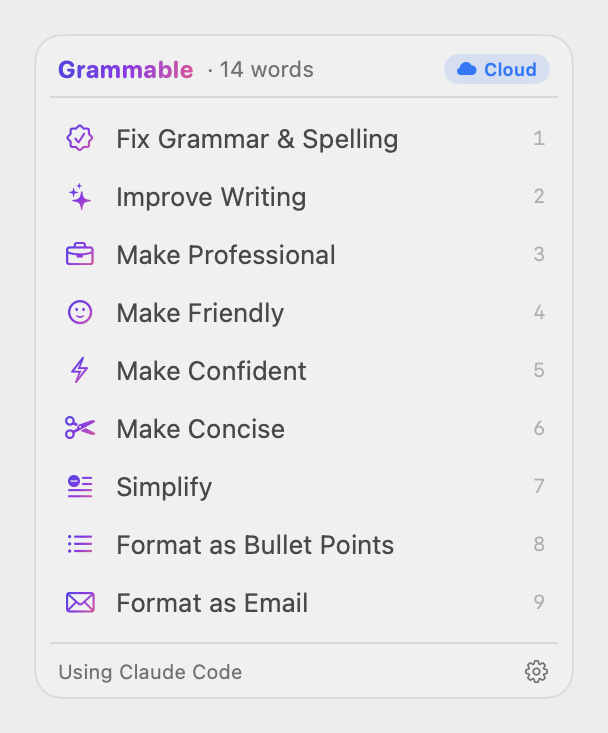
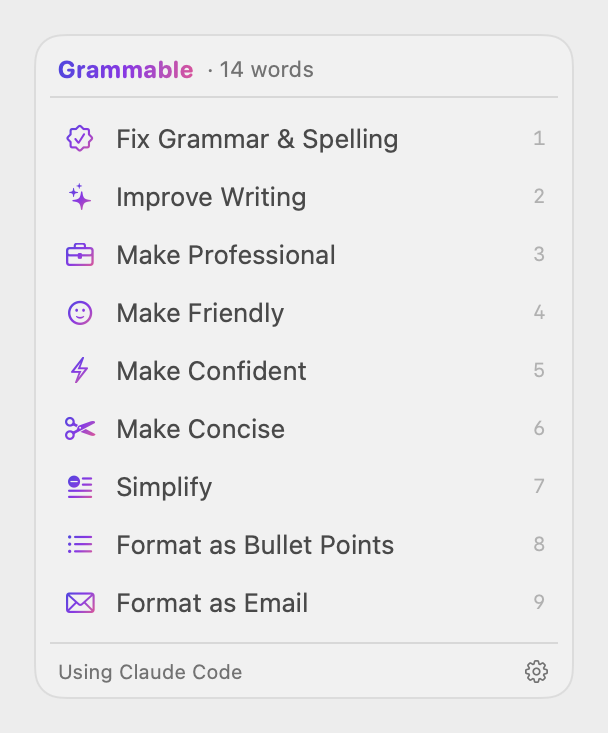
Update README for recent features
Document the built-in macOS spell checker, the Free offline AI setup,
launch at login, Monterey support and upgrading with brew update.
Refresh the menu screenshot and drop comparisons to other products.

diff --git a/README.md b/README.md
@@ -7,7 +7,8 @@
 ### Free, open-source AI grammar checker & rewriter for macOS
 
 **Fix grammar and spelling, change tone, rewrite and format text in _any_ Mac app —
-powered by the AI you already have: Claude Code, Codex CLI, Gemini CLI, Ollama, LM Studio or Apple Intelligence.**
+powered by the AI you already have: Claude Code, Codex CLI, Gemini CLI, Ollama, LM Studio or Apple Intelligence.
+No AI yet? Grammar fixes work out of the box, and a free offline AI is three clicks away.**
 
 **No subscription. No account. No servers. 100% free.**
 
@@ -40,13 +41,14 @@ powered by the AI you already have: Claude Code, Codex CLI, Gemini CLI, Ollama, 
 
 Paying a monthly subscription for a grammar checker when you **already pay for Claude, ChatGPT or Gemini** — or can run a free local model — makes no sense.
 
-Grammable is a tiny **menu bar app** that turns the AI tools already installed on your Mac into a **system-wide writing assistant**, like Grammarly — without the extra subscription, the browser extension or sending your writing to yet another company.
+Grammable is a tiny **menu bar app** that turns the AI tools already installed on your Mac into a **system-wide writing assistant** — without the extra subscription, the browser extension or sending your writing to yet another company.
 
 | | Grammable | Typical subscription writing assistants |
 |---|---|---|
 | Price | **Free forever (GPL-3.0)** | Monthly subscription |
 | AI model | **Your choice:** Claude, GPT/Codex, Gemini, Llama, Qwen, Mistral, Apple on-device… | Vendor's model only |
-| Offline mode | **Yes** (Ollama, LM Studio, Apple Intelligence) | No |
+| Offline mode | **Yes** (Ollama, LM Studio, Apple Intelligence, built-in macOS checker) | No |
+| Works with nothing installed | **Yes** — grammar & spelling via the macOS checker | — |
 | Works in | **Any app** with selectable text | Selected apps / browser |
 | Extra account | **None** | Required |
 | Your own prompts | **Yes** — shareable Markdown presets | Limited |
@@ -65,12 +67,15 @@ Grammable is a tiny **menu bar app** that turns the AI tools already installed o
 - 🖱 **Appears when you select text** — a small **G** button pops up next to your selection; click it for actions. No live typing surveillance.
 - ⌨ **Global shortcut `⌃⌥G`** — works even when the pop-up button is turned off.
 - 🧠 **Choose the AI per action** — e.g. on-device Ollama for grammar, Claude for tone.
+- 🆓 **Works with no AI installed** — *Fix Grammar & Spelling* uses the spelling and grammar checker built into macOS, and takes over automatically if your AI isn't installed or running.
+- 📦 **One-click free offline AI** — *Settings → AI Backends → Free offline AI* installs Ollama and downloads a small model with a progress bar. No account, nothing leaves your Mac.
 - 🔒 **Privacy badge on every result** — always shows whether your text stayed **On-device** or went to the **Cloud**.
 - 📝 **Custom presets as Markdown files** — write your own house style, share it on GitHub.
 - 🟢 **Menu bar on/off switch** — pause Grammable instantly.
+- 🚀 **Starts quietly at login** — sits in the menu bar after a restart, with no windows. Turn it off in Settings.
 - 🚫 **Per-app exclusions** — never pops up in Terminal, password managers, or apps you choose.
 - 🔑 **Never reads password fields.** Your clipboard is restored after every action.
-- 🪶 **Native & lightweight** — Swift + SwiftUI, universal binary (Apple silicon & Intel), no Electron.
+- 🪶 **Native & lightweight** — Swift + SwiftUI, ~2 MB universal binary (Apple silicon & Intel), no Electron. Runs on **macOS 12 Monterey** and later.
 - 🧰 **Command-line mode** — `Grammable --run fix-grammar "text"` for scripts and Shortcuts.
 
 ## How it works
@@ -80,11 +85,12 @@ Grammable is a tiny **menu bar app** that turns the AI tools already installed o
         (Mail, Slack, Notes, Safari, Chrome, Word, VS Code, …)         │
                                                                        ▼
                      Claude Code · Codex CLI · Gemini CLI · Ollama · LM Studio · Apple Intelligence
+                                  (no AI? grammar fixes use the macOS spell checker)
 ```
 
 1. **Select** some text you wrote — in any app.
 2. Click the **G** button that appears next to it (or press **`⌃⌥G`**).
-3. Choose an action: **Fix Grammar & Spelling**, **Make Professional**, **Make Concise**, **Format as Email**… (number keys `1`–`9` work too).
+3. Choose an action: **Fix Grammar & Spelling**, **Make Professional**, **Make Concise**, **Format as Email**… (number keys `1`–`9` work too). The bottom of the menu shows which AI will be used, and a notice with **Set Up Free AI…** appears if none is set up.
 4. **Review** the suggestion:
    - *Grammar fixes* → every change is listed; tick the ones you want.
    - *Rewrites* → an editable before/after view.
@@ -96,7 +102,7 @@ Grammable is a tiny **menu bar app** that turns the AI tools already installed o
 
 ## Supported AI backends
 
-Grammable never bundles a model or calls its own server. It drives tools **you already have installed**:
+Grammable never bundles a model or calls its own server. It drives tools **you already have installed** — and works without any of them for grammar and spelling:
 
 | Backend | Where your text goes | What you need | Cost |
 |---|---|---|---|
@@ -110,7 +116,7 @@ Grammable never bundles a model or calls its own server. It drives tools **you a
 
 **No AI installed? It still works.** *Fix Grammar & Spelling* falls back to the spelling and grammar checker built into macOS, so it works on any Mac with zero setup. For rewrites and tone changes, **Settings → AI Backends → Free offline AI** sets up [Ollama](https://ollama.com) in three clicks: download Ollama, start it, then pick a small model (Llama 3.2 3B, 2 GB, or 1B, 1.3 GB, for older or Intel Macs). Grammable downloads it with a progress bar and makes it your default. Nothing is bundled in the 2 MB app, and no text ever leaves your Mac.
 
-> ⚠ **Important — about "local".** Grammable itself runs entirely on your Mac and has no servers. However, **Claude Code, Codex CLI and Gemini CLI are cloud services**: when you choose them, your selected text is sent to Anthropic, OpenAI or Google using **your own** installed and signed-in CLI, under your account and their terms. For **fully offline** use, choose **Ollama**, **LM Studio** or **Apple Intelligence**. Every result shows an **On-device** or **Cloud** badge so you always know.
+> ⚠ **Important — about "local".** Grammable itself runs entirely on your Mac and has no servers. However, **Claude Code, Codex CLI and Gemini CLI are cloud services**: when you choose them, your selected text is sent to Anthropic, OpenAI or Google using **your own** installed and signed-in CLI, under your account and their terms. For **fully offline** use, choose **Ollama**, **LM Studio**, **Apple Intelligence** or the built-in **macOS Spelling & Grammar** checker. Every result shows an **On-device** or **Cloud** badge so you always know.
 
 <p align="center"><img src="docs/screenshots/settings-backends.png" width="560" alt="Grammable AI backend settings" /></p>
 
@@ -125,7 +131,17 @@ brew install --cask udayalakmal/tap/grammable
 ```
 
 Then open **Grammable** from Applications and allow **Accessibility** when asked.
-Upgrade with `brew upgrade --cask grammable`. On Homebrew 7, if you're asked to trust the tap, run `brew trust udayalakmal/tap` first.
+On Homebrew 7, if you're asked to trust the tap, run `brew trust udayalakmal/tap` first.
+
+**Upgrading:**
+
+```bash
+brew update && brew upgrade --cask grammable
+```
+
+If Homebrew says the latest version is already installed but Grammable is older, `brew update` was skipped — run it first. After each upgrade, remove Grammable from the Accessibility list with **–** and add it again with **+** (needed until releases are notarized).
+
+Settings opens by itself only on the first launch. After that Grammable starts quietly at login; open it again from Applications or Spotlight to reach Settings.
 
 ### Download
 
@@ -135,7 +151,7 @@ Upgrade with `brew upgrade --cask grammable`. On Homebrew 7, if you're asked to 
    ```bash
    xattr -dr com.apple.quarantine /Applications/Grammable.app
    ```
-4. Allow **Accessibility** when asked (System Settings → Privacy & Security → Accessibility). This lets Grammable read your selection and paste the result back.
+4. Allow **Accessibility** when asked (System Settings → Privacy & Security → Accessibility; on Monterey, System Preferences → Security & Privacy → Privacy → Accessibility). This lets Grammable read your selection and paste the result back.
 5. Look for the **G** icon in the menu bar. Done!
 
 ### Build from source
@@ -151,7 +167,9 @@ open dist/Grammable.app
 
 Run the tests with `swift test`.
 
-### Set up at least one AI backend
+### Set up an AI backend (optional)
+
+Grammar and spelling fixes work without one. For tone changes and rewrites, pick any of these:
 
 ```bash
 # Option A — reuse a subscription you already have (cloud)
@@ -159,7 +177,7 @@ npm install -g @anthropic-ai/claude-code && claude      # sign in once
 npm install -g @openai/codex && codex                   # sign in once
 npm install -g @google/gemini-cli && gemini             # sign in once
 
-# Option B — 100% offline and free (or use Settings → AI Backends → Free offline AI)
+# Option B — 100% offline and free (easiest: Settings → AI Backends → Free offline AI)
 brew install ollama && ollama serve &
 ollama pull llama3.2
 ```
@@ -175,7 +193,7 @@ Every action is a plain **Markdown file** in `~/.grammable/presets/`. Create one
 name: Professional Email
 icon: briefcase        # any SF Symbol name
 mode: rewrite          # rewrite = before/after view · fix = accept/reject each change
-backend: claude        # optional: claude | codex | gemini | ollama | openai-compatible | apple
+backend: claude        # optional: claude | codex | gemini | ollama | openai-compatible | apple | builtin
 model: haiku           # optional, backend-specific
 order: 15              # optional, position in the menu
 ---
@@ -199,6 +217,7 @@ $G --status                                    # which backends are available
 $G --list                                      # list presets
 $G --render-ui ~/Desktop/grammable-ui          # render every screen to PNG
 $G --run fix-grammar --diff "i has went home"  # → I went home.
+$G --run fix-grammar --backend builtin "teh email"   # macOS spell checker, no AI
 pbpaste | $G --run professional --backend ollama | pbcopy
 ```
 
@@ -215,7 +234,7 @@ pbpaste | $G --run professional --backend ollama | pbcopy
 
 - macOS 12 Monterey or later (Apple silicon or Intel)
 - Accessibility permission
-- At least one AI backend from the table above
+- An AI backend from the table above for tone changes and rewrites (grammar fixes work without one)
 
 ## FAQ
 
@@ -226,15 +245,21 @@ Yes — it's GPL-3.0 open source. There's no paid tier, no account and no server
 </details>
 
 <details>
-<summary><b>Is this a free Grammarly alternative for Mac?</b></summary>
+<summary><b>Does it check my writing as I type?</b></summary>
 
-Grammable covers the most-used parts — grammar & spelling fixes, tone changes, rewriting and formatting in any app — using an AI of your choice. It intentionally does **not** do live as-you-type underlining; it works on text you select.
+No, on purpose. Grammable never watches your typing and does no live underlining. It works only on text you select and only when you ask: grammar & spelling fixes, tone changes, rewriting and formatting in any app, using an AI of your choice.
 </details>
 
 <details>
 <summary><b>Does it work offline?</b></summary>
 
-Yes, with **Ollama**, **LM Studio** (or any local OpenAI-compatible server) or **Apple Intelligence**. Claude Code, Codex and Gemini CLI need the internet.
+Yes, with **Ollama**, **LM Studio** (or any local OpenAI-compatible server), **Apple Intelligence**, or the built-in **macOS Spelling & Grammar** checker. Claude Code, Codex and Gemini CLI need the internet.
+</details>
+
+<details>
+<summary><b>Do I need to install an AI first?</b></summary>
+
+No. *Fix Grammar & Spelling* works immediately using the checker built into macOS (it's simpler than an AI: it catches spelling and common grammar mistakes). For tone changes and rewrites, open **Settings → AI Backends → Free offline AI**: Grammable helps you install the free Ollama app and downloads a small model (Llama 3.2 3B, about 2 GB, or 1B, about 1.3 GB, for older or Intel Macs). Grammable itself stays about 2 MB — no model is bundled.
 </details>
 
 <details>
@@ -262,6 +287,18 @@ Check that Grammable is **Enabled** in the menu bar, Accessibility is granted (S
 </details>
 
 <details>
+<summary><b>Homebrew says it's up to date, but I have an old version.</b></summary>
+
+Homebrew refreshes taps only occasionally. Run `brew update`, then `brew upgrade --cask grammable`. If that still doesn't help: `brew reinstall --cask udayalakmal/tap/grammable`.
+</details>
+
+<details>
+<summary><b>How do I stop Grammable from starting at login?</b></summary>
+
+Turn off **Launch at login** in Settings → General (or in System Settings → General → Login Items). Settings opens automatically only on the very first launch; afterwards Grammable starts quietly in the menu bar.
+</details>
+
+<details>
 <summary><b>Which backend is fastest?</b></summary>
 
 Local models on Apple silicon (Ollama with a small model such as `llama3.2` or `qwen2.5:3b`) usually answer in 1–3 seconds. Agent CLIs typically take 3–8 seconds. Set a smaller model (e.g. `haiku` for Claude) in Settings for faster replies.
@@ -276,6 +313,8 @@ Local models on Apple silicon (Ollama with a small model such as `llama3.2` or `
 - [ ] Preset chaining (e.g. Fix Grammar → Make Concise)
 - [ ] Explanations for each grammar fix
 - [ ] Localization
+- [x] Works without an AI (macOS spell checker) and one-click offline AI setup
+- [x] macOS 12 Monterey support
 
 ## Contributing
 
@@ -295,8 +334,8 @@ Copyright © 2026 Udaya Lakmal.
 
 Grammable is free software: you can redistribute it and/or modify it under the terms of the [GNU General Public License v3.0](LICENSE) or (at your option) any later version.
 
-Claude, Codex, Gemini, Ollama, LM Studio, Apple Intelligence and Grammarly are trademarks of their respective owners. Grammable is an independent project and is not affiliated with or endorsed by any of them.
+Claude, Codex, Gemini, Ollama, LM Studio, Apple Intelligence and Apple are trademarks of their respective owners. Grammable is an independent project and is not affiliated with or endorsed by any of them.
 
 ---
 
-<sub>Keywords: free grammar checker for Mac, AI writing assistant macOS, Grammarly alternative, open source grammar checker, rewrite text with AI, tone changer, paraphrasing tool, spell checker, proofreading app, Claude Code, Codex CLI, Gemini CLI, Ollama, LM Studio, local LLM, offline AI writing, Apple Intelligence Writing Tools alternative, menu bar app, SwiftUI.</sub>
+<sub>Keywords: free grammar checker for Mac, AI writing assistant macOS, open source grammar checker, rewrite text with AI, tone changer, paraphrasing tool, spell checker, proofreading app, Claude Code, Codex CLI, Gemini CLI, Ollama, LM Studio, local LLM, offline AI writing, offline grammar checker, works on macOS Monterey, Apple Intelligence Writing Tools alternative, menu bar app, SwiftUI.</sub>
